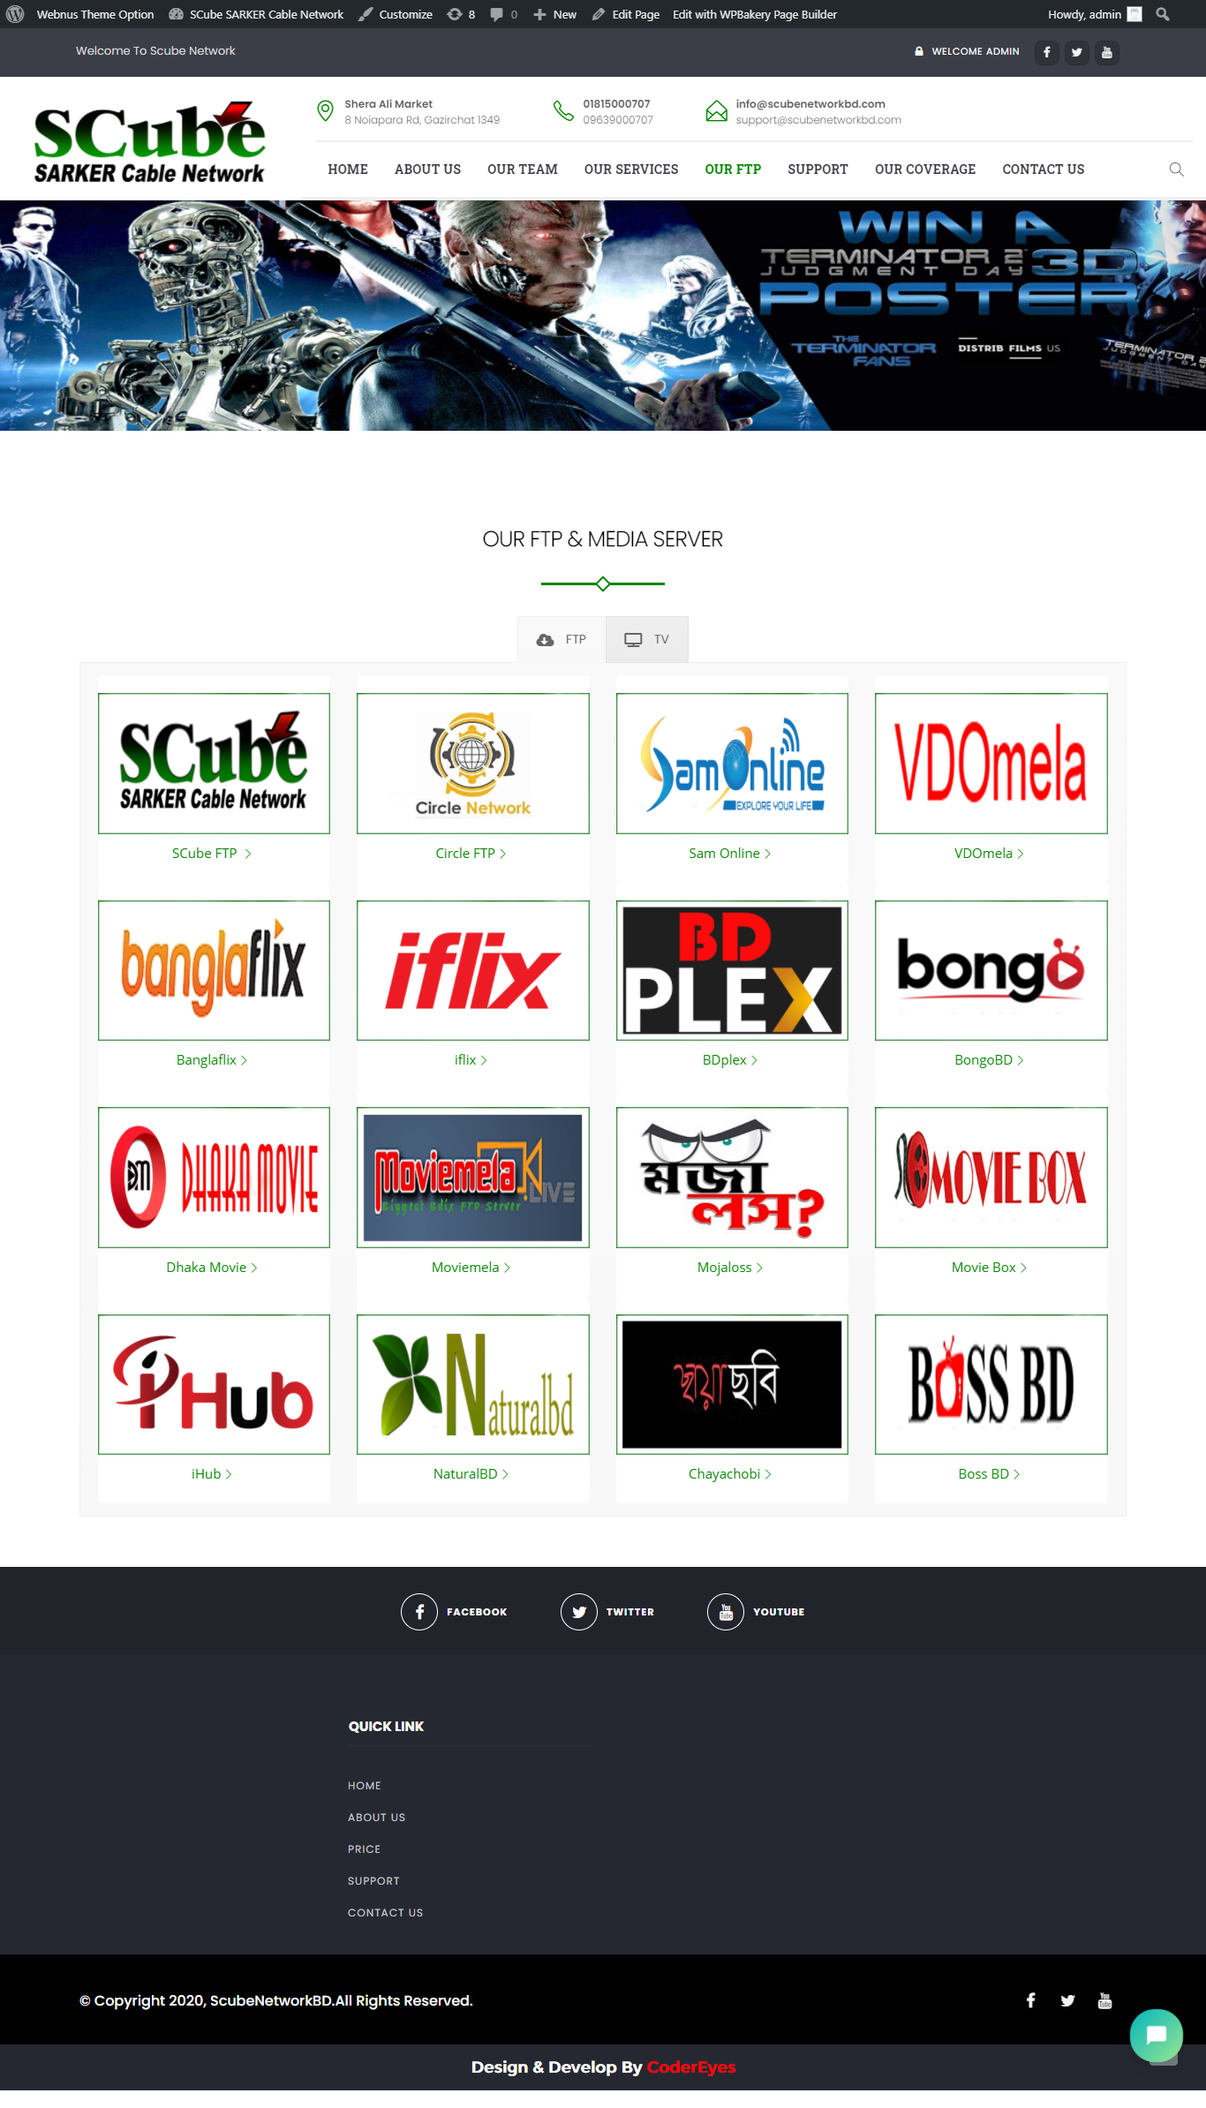
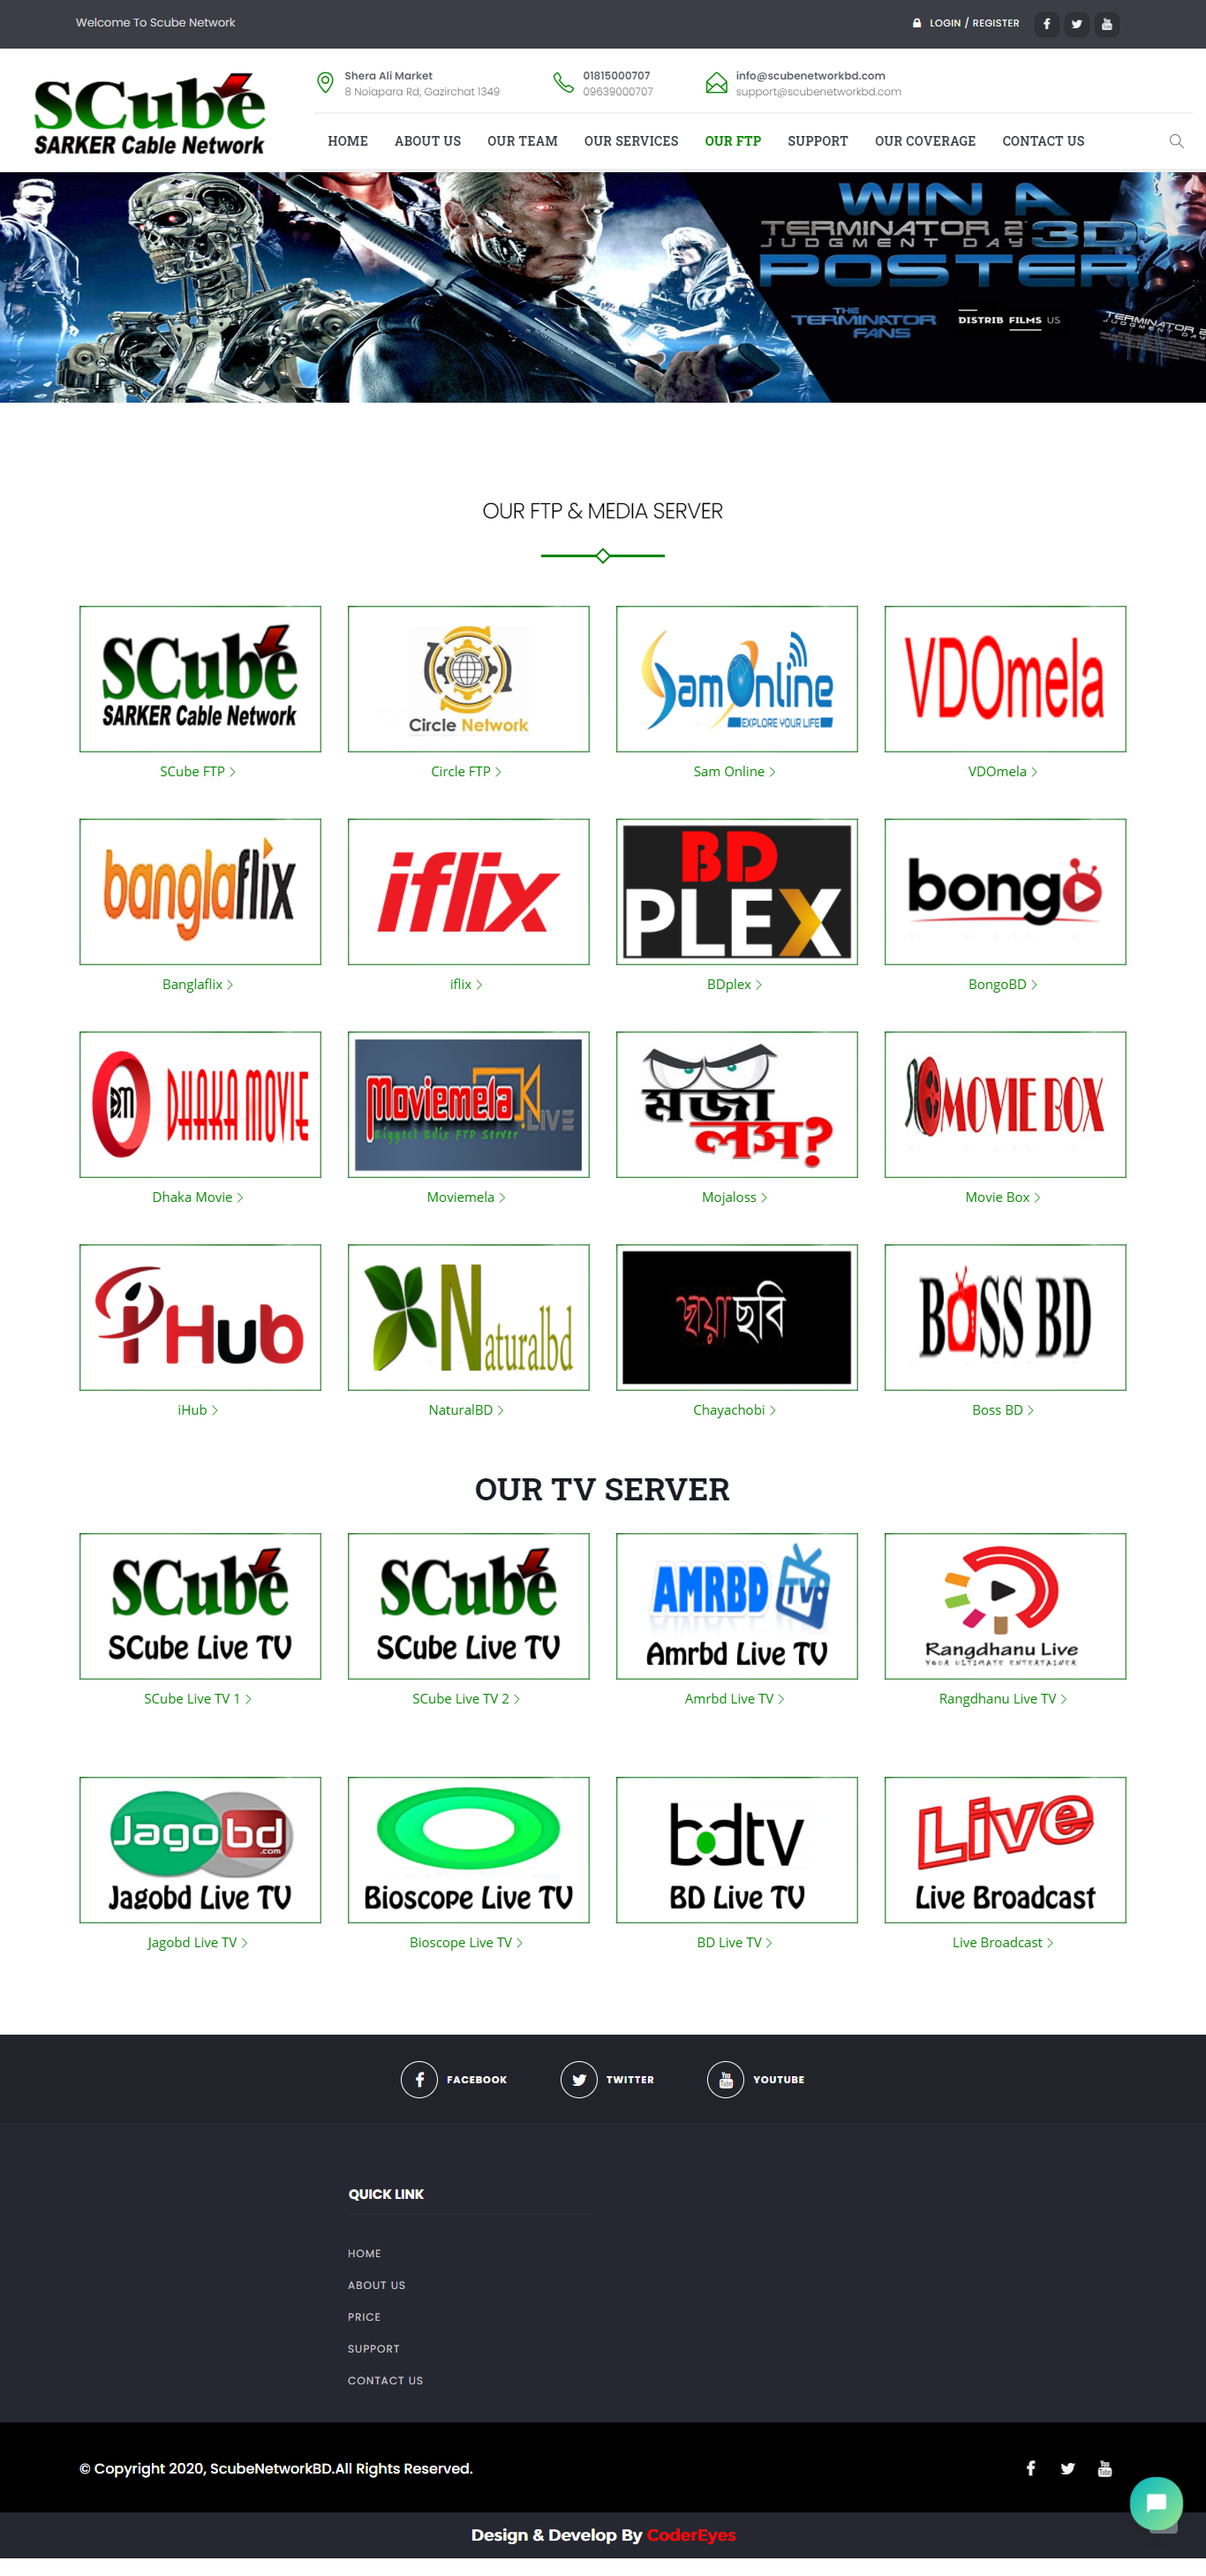
2

diff --git a/index.html b/index.html
@@ -45,13 +45,13 @@
                       <div class="col-xl-3">
                          <!-- logo area -->
                          <div class="logo-area">
-                             <a href=""><img src="" alt=""></a>
+                             <a href=""><img src="./logo.png" alt=""></a>
                          </div>
                       </div>
                       <div class="col-xl-9">
                          <div class="middle-option">
                              <div class="middle-top">
-                                 <ul class="d-flex justify-content-between">
+                                 <ul >
                                      <li>
                                         <div class="icon-box d-flex">
                                             <div class="icon"><i class="fas fa-map-marker"></i></div>
@@ -63,26 +63,26 @@
                                      </li>
                                      <li>
                                         <div class="icon-box d-flex">
-                                            <div class="icon"><i class="fas fa-map-marker"></i></div>
+                                            <div class="icon"><i class="fas fa-phone"></i></div>
                                             <div class="icon-content">
-                                                <h5>Shera Ali Market</h5>
-                                                <p>8, Noapara Road, Gazirchat, 1349</p>
+                                                <h5>856857643</h5>
+                                                <p>856857643</p>
                                             </div>
                                         </div>
                                      </li>
                                      <li>
                                         <div class="icon-box d-flex">
-                                            <div class="icon"><i class="fas fa-map-marker"></i></div>
+                                            <div class="icon"><i class="fas fa-envelope"></i></div>
                                             <div class="icon-content">
-                                                <h5>Shera Ali Market</h5>
-                                                <p>8, Noapara Road, Gazirchat, 1349</p>
+                                                <h5>nhdh@gmail.com</h5>
+                                                <p>fdysfg@gmail.com</p>
                                             </div>
                                         </div>
                                      </li>
                                  </ul>
                              </div>
                              <div class="middle-bottom">
-                                 <ul class="d-flex">
+                                 <ul >
                                      <li><a href="">Our Ftp Server</a></li>
                                      <li><a href="">Our Media Server</a></li>
                                  </ul>
@@ -94,6 +94,48 @@
           </div>
       </header>
       <!-- header area end-->
+
+      <!-- banner start -->
+      <section id="banner">
+
+      </section>
+      <!-- banner end -->
+
+
+      <!--ftp server start-->
+      <section id="ftpServer">
+          <div class="container">
+              <div class="row">
+                  <div class="col-xl-12">
+                      <div class="section-title">
+                          <h2>OUR FTP SERVER</h2>
+                      </div>
+                  </div>
+              </div>
+
+              <div class="row">
+                  <div class="col-xl-3"></div>
+                  <div class="col-xl-3"></div>
+                  <div class="col-xl-3"></div>
+                  <div class="col-xl-3"></div>
+              </div>
+          </div>
+      </section>
+      <!--ftp server end-->
+
+    <!--media server start-->
+    <section id="mediaServer">
+        <div class="container">
+            <div class="row">
+                <div class="col-xl-12">
+                    <div class="section-title">
+                        <h2>OUR Media SERVER</h2>
+                    </div>
+                </div>
+            </div>
+        </div>
+    </section>
+    <!--media server end-->
      
   </body>
 </html>

diff --git a/style.css b/style.css
@@ -48,3 +48,56 @@ a {
 .middle-bottom ul li a {
   color: #000;
 }
+.bottom-header{
+  padding-top: 30px;
+  padding-bottom: 20px;
+}
+.logo-area a {
+    display: block;
+}
+.middle-top ul li {
+    display: inline-block;
+    margin-right: 100px;
+}
+
+.icon-content h5 {
+    font-size: 16px;
+    font-weight: bold;
+    color: #5b5d60;
+    margin-bottom: 4px;
+}
+
+.icon i {
+    color: #058600;
+    font-size: 24px;
+    margin-right: 12px;
+    margin-top: 6px;
+}
+.middle-bottom ul li {
+    display: inline-block;
+    margin-right:25px;
+}
+
+.middle-bottom ul li a {
+    line-height: 62px;
+    color: #363842;
+    font-weight: 700;
+    font-size: 19px;
+    letter-spacing: 0.4px;
+    border-top: 2px solid transparent;
+    transition: .23s all ease-in-out;
+}
+.middle-top {
+    border-bottom: 3px solid #eee;
+    padding-bottom: 20px;
+}
+/*========================================*/
+/*            banner                      */
+/*========================================*/
+section#banner {
+    background-image: url(../scuba/banner.jpg);
+    padding-top: 22%;
+    background-position: right center;
+    background-repeat: no-repeat;
+    background-size: cover;
+}
